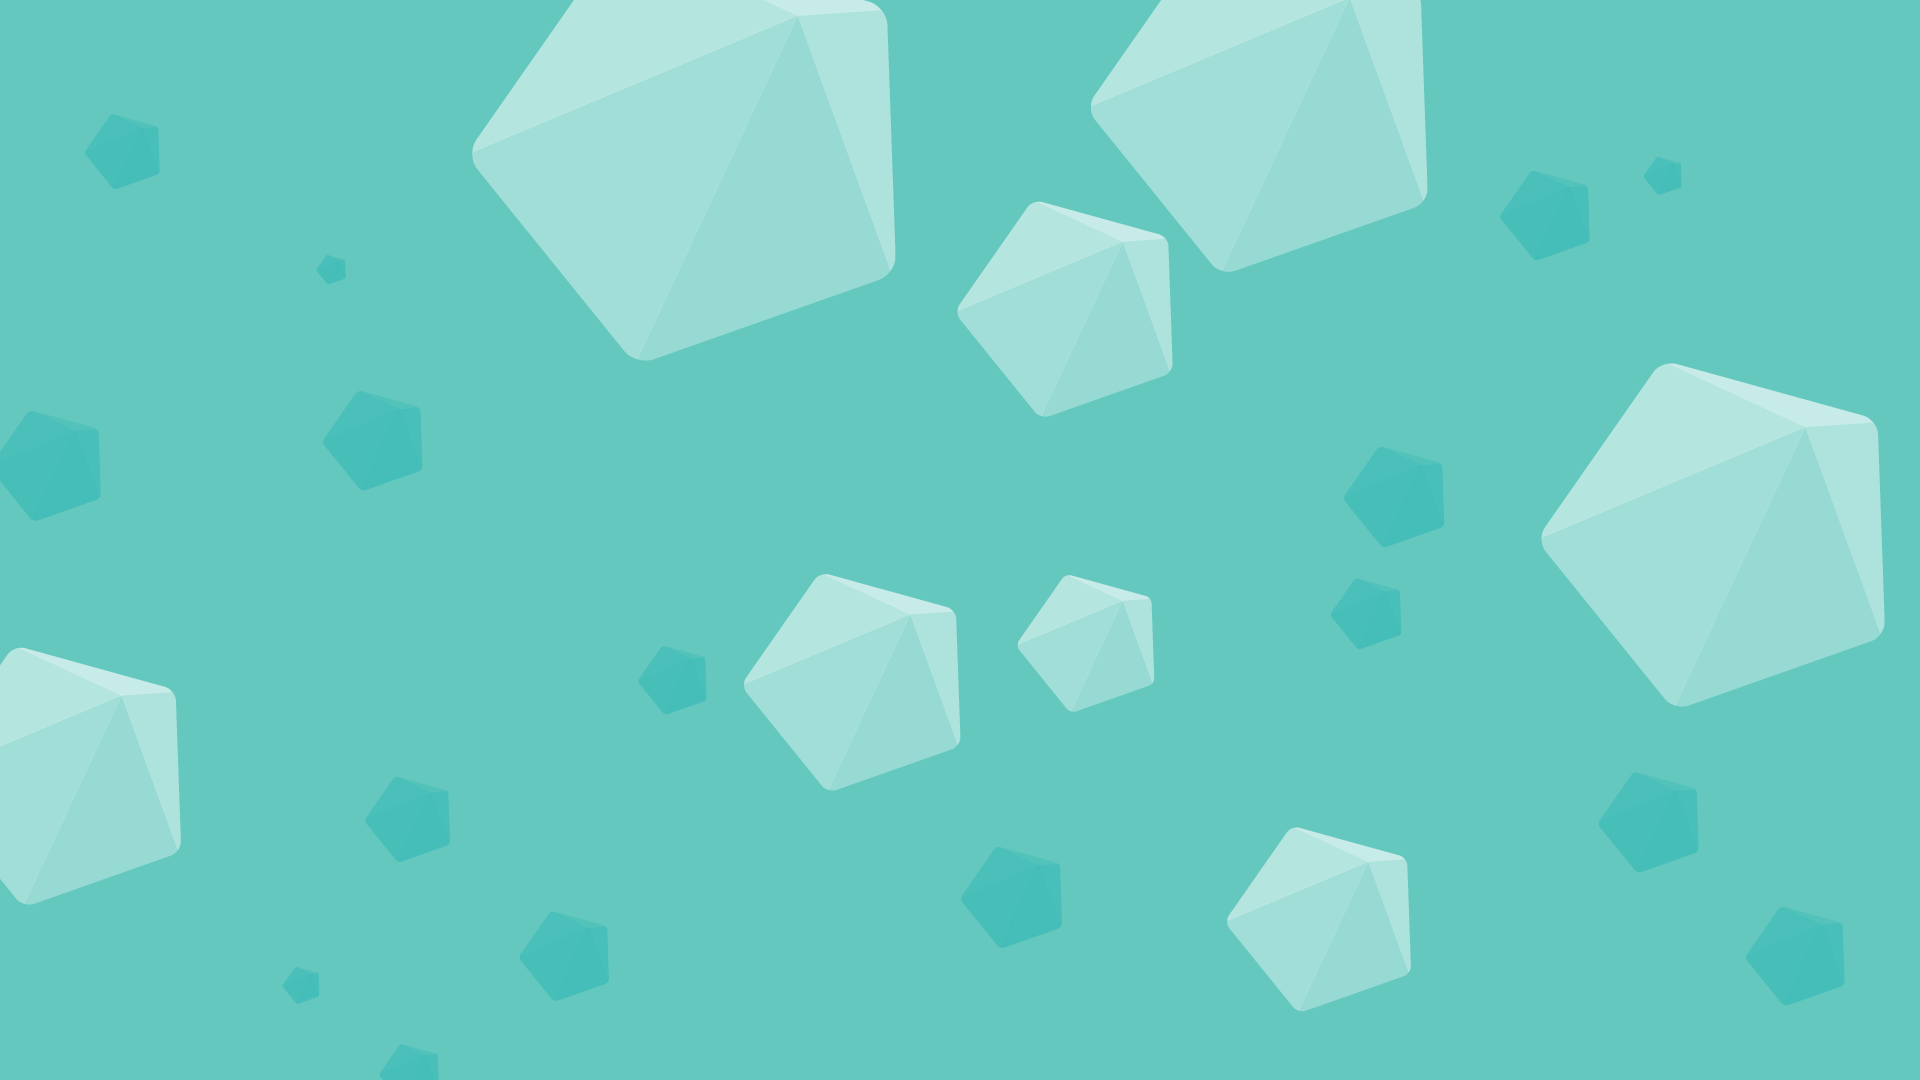
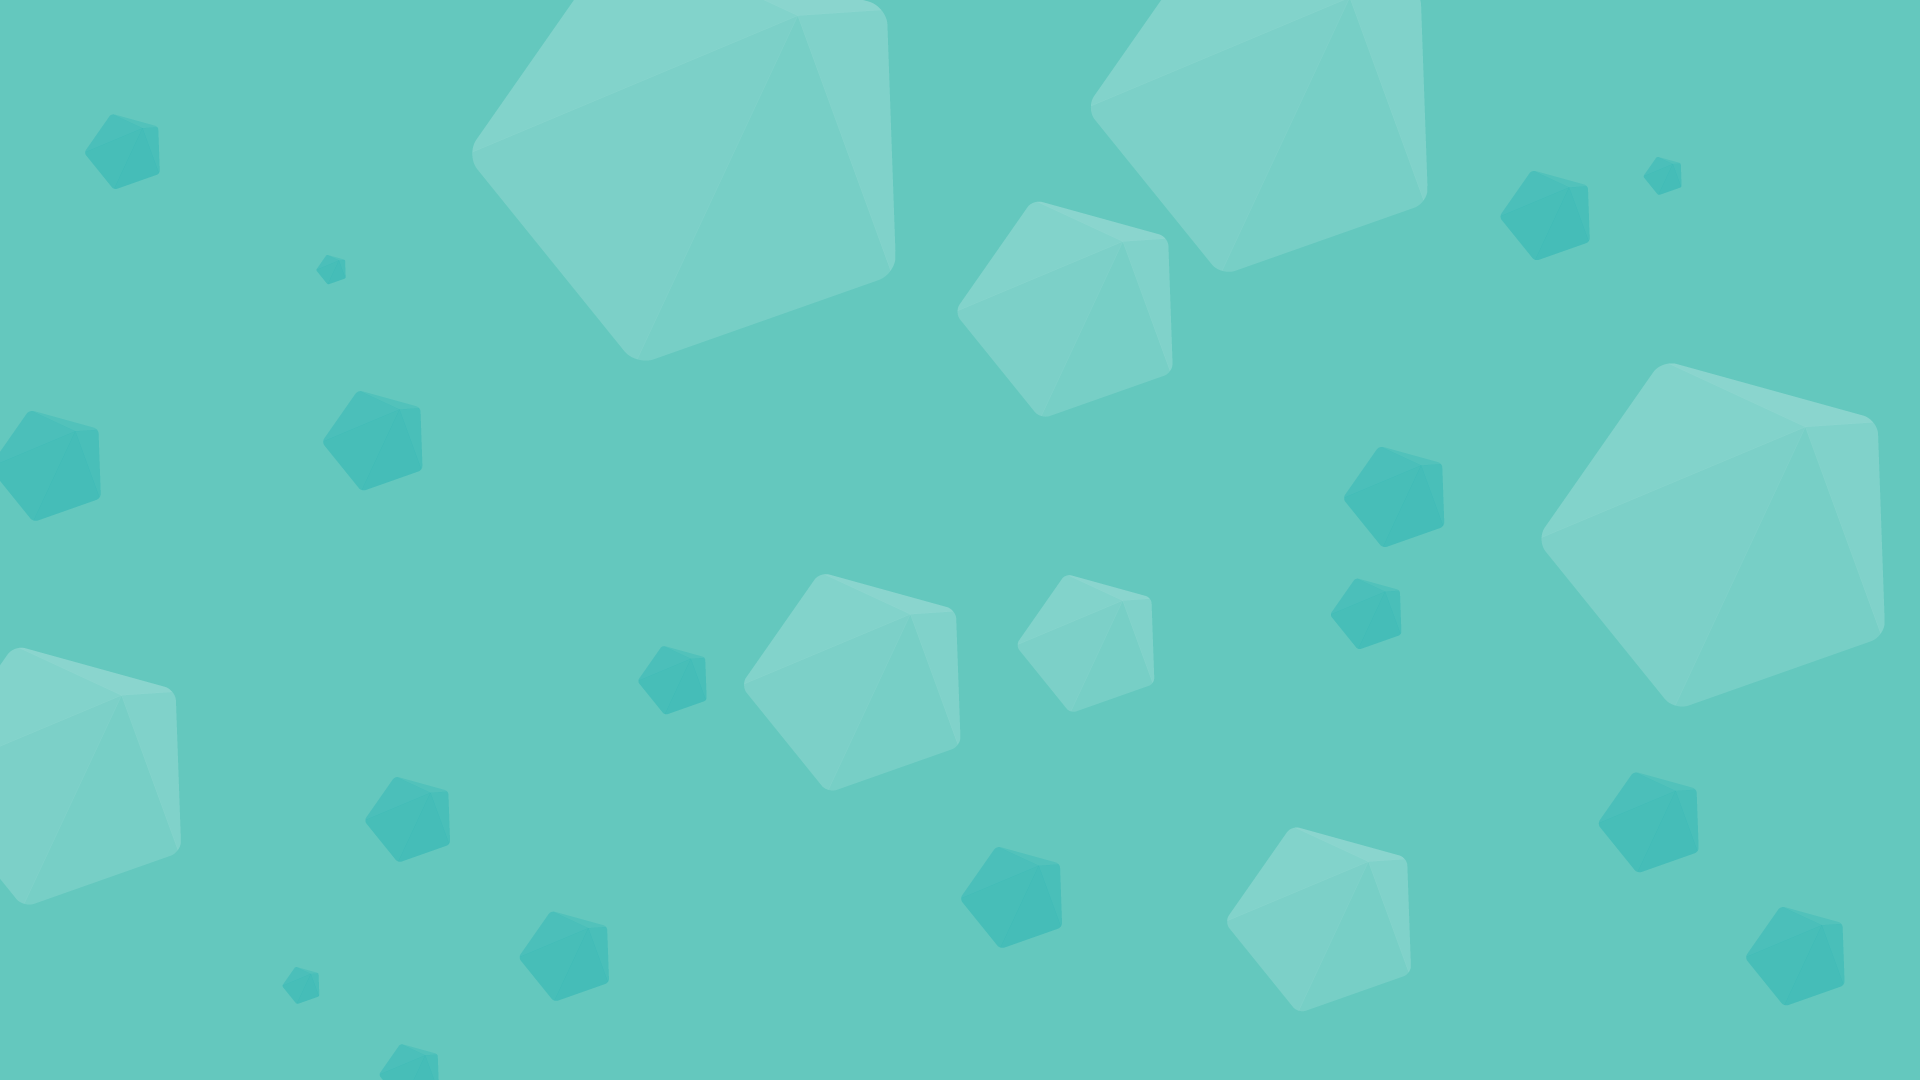
Styled About page, and improved responsive styles further

diff --git a/style.css b/style.css
@@ -341,6 +341,13 @@ textarea {
   font-family: "ff-tisa-web-pro", Georgia, serif;
   font-size: 26px;
   line-height: 1.5; }
+  @media (min-width: 1600px) {
+    body,
+    button,
+    input,
+    select,
+    textarea {
+      font-size: 39px; } }
 
 h1, h2, h3, h4, h5, h6 {
   font-family: "stratum-1-web", sans-serif;
@@ -905,10 +912,10 @@ blockquote.alignright {
   @media (min-width: 768px) {
     .site-header {
       overflow: hidden;
-      padding: 1em 1.5em 0.2962962963em; } }
+      padding: 1em 1.212em; } }
   @media (min-width: 1200px) {
     .site-header {
-      padding: 1em 2.25em 0.2962962963em; } }
+      padding: 1em 1.5em; } }
 
 .site-branding {
   margin: 0 auto 0.2962962963em;
@@ -965,11 +972,11 @@ blockquote.alignright {
 .site-content {
   width: 100vw;
   margin-bottom: 2.25em;
-  padding-top: 7.59375em; }
+  padding-top: 5.0625em; }
 
 .content-area,
 .widget-area {
-  max-width: 31.062234375em;
+  max-width: 38.443359375em;
   padding: 1.5em;
   margin: 0 auto 1.5em; }
 
@@ -1107,13 +1114,52 @@ blockquote.alignright {
           opacity: .8; }
 
 .page-about {
-  background: #325AA0; }
+  background: #7B5C6C; }
 
 /*--------------------------------------------------------------
 ## Home
 --------------------------------------------------------------*/
-.page-about .entry-header {
-  display: none; }
+.page-about {
+  background-color: #7B5C6C; }
+  .page-about:after {
+    content: "";
+    display: block;
+    position: fixed;
+    top: 0;
+    left: 0;
+    width: 100vw;
+    height: 100vh;
+    z-index: -1;
+    background: url("images/hugobaeta-about.png") no-repeat center center;
+    background-size: cover;
+    opacity: .5; }
+  .page-about .entry-header {
+    position: relative;
+    width: 200px;
+    max-width: 100%;
+    background: url("images/hugobaeta-about-avatar.png") no-repeat center center;
+    background-size: cover;
+    border-radius: 50%;
+    margin: -1.212em auto 1.5em; }
+    .page-about .entry-header:before {
+      display: block;
+      content: "";
+      width: 100%;
+      padding-top: 100%; }
+    @media (min-width: 768px) {
+      .page-about .entry-header {
+        width: 300px;
+        margin-bottom: 2.25em; } }
+    @media (min-width: 1200px) {
+      .page-about .entry-header {
+        width: 400px;
+        margin-top: -2.25em;
+        margin-bottom: 2.25em; } }
+    @media (min-width: 1600px) {
+      .page-about .entry-header {
+        width: 500px; } }
+    .page-about .entry-header h1 {
+      display: none; }
 
 /*--------------------------------------------------------------
 ## Portfolio

diff --git a/sass/layout/site-sections/_about.scss b/sass/layout/site-sections/_about.scss
@@ -1,5 +1,54 @@
 .page-about {
+    background-color: $color__background-body-about;
+
+    &:after {
+        content: "";
+        display: block;
+        position: fixed;
+        top: 0;
+        left: 0;
+        width: 100vw;
+        height: 100vh;
+        z-index: -1;
+        background: url('images/hugobaeta-about.png') no-repeat center center;
+        background-size: cover;
+        opacity: .5;
+    }
+
+
     .entry-header {
-        display: none;
+        position: relative;
+        width: 200px;
+        max-width: 100%;
+        background: url('images/hugobaeta-about-avatar.png') no-repeat center center;
+        background-size: cover;
+        border-radius: 50%;
+        margin: -(ms(1)) auto ms(2);
+
+        &:before {
+            display: block;
+            content: "";
+            width: 100%;
+            padding-top: 100%;
+        }
+
+        @include respondTo(atleast-medium) {
+            width: 300px;
+            margin-bottom: ms(4);
+        }
+
+        @include respondTo(atleast-extra-wide) {
+            width: 400px;
+            margin-top: -(ms(4));
+            margin-bottom: ms(4);
+        }
+
+        @include respondTo(atleast-ultra-wide) {
+            width: 500px;
+        }
+
+        h1{
+            display: none;
+        }
     }
 }

diff --git a/sass/variables-site/_colors.scss b/sass/variables-site/_colors.scss
@@ -56,7 +56,7 @@ $color__highlight-mix60: mix($color__base, $color__highlight-tint20, 60%);
 $color__background-body: $color__purple;
 $color__background-body-home: $color__magenta;
 $color__background-body-portfolio: $color__purple;
-$color__background-body-about: $color__blue;
+$color__background-body-about: $color__brown;
 $color__background-screen: #fff;
 $color__background-hr: rgba(#fff,.25);
 $color__background-pre: $color__base-tint95;

diff --git a/sass/layout/header/_header.scss b/sass/layout/header/_header.scss
@@ -10,11 +10,11 @@
 
     @include respondTo(atleast-medium) {
         overflow: hidden;
-        padding: ms(0) ms(2) ms(-6);
+        padding: ms(0) ms(1);
     }
 
     @include respondTo(atleast-extra-wide) {
-        padding: ms(0) ms(4) ms(-6);
+        padding: ms(0) ms(2);
     }
 }
 

diff --git a/sass/layout/_layout.scss b/sass/layout/_layout.scss
@@ -11,13 +11,13 @@
 .site-content {
     width: 100vw;
     margin-bottom: ms(4);
-    padding-top: ms(10);
+    padding-top: ms(8);
 
 }
 
 .content-area, 
 .widget-area {
-    max-width: ms(17);
+    max-width: ms(18);
     padding: ms(2);
     margin: 0 auto ms(2);
 }

diff --git a/sass/typography/_typography.scss b/sass/typography/_typography.scss
@@ -22,6 +22,9 @@ textarea {
 	font-family: $font__main;
 	font-size: 26px;
 	line-height: $font__line-height-body;
+    @include respondTo(atleast-ultra-wide) {
+        font-size: 39px;
+    }
 }
 
 @import "headings";
